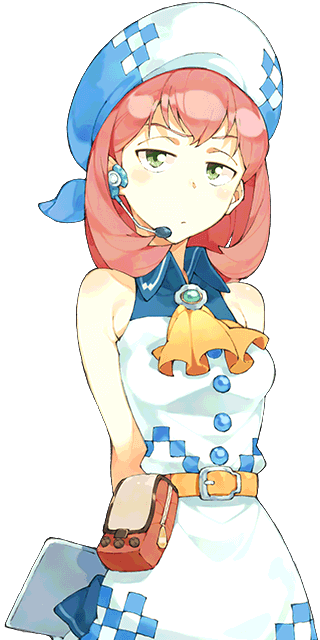
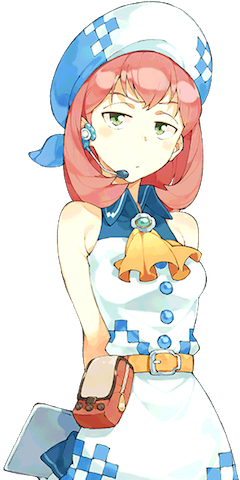
shrunk hina a bit

diff --git a/README.md b/README.md
@@ -1,9 +1,8 @@
 # Takatomon
 A digivolution chart viewer for Digimon Links.
 
-| ![hina](https://raw.githubusercontent.com/Krazete/takatomon/master/img/hina/abyss.png) | FAQ |
+| ![hina](https://raw.githubusercontent.com/Krazete/takatomon/master/img/hina/abyss.png) | test |
 | --- | --- |
-| test | test |
 
 ## Data Credits
 - Bandai Namco - Digimon Links
